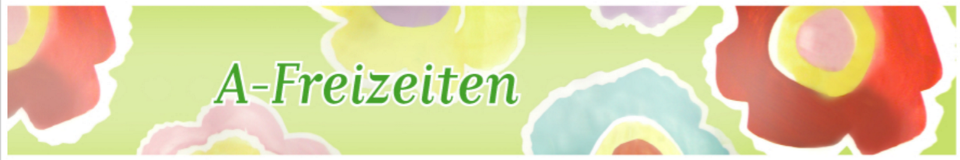
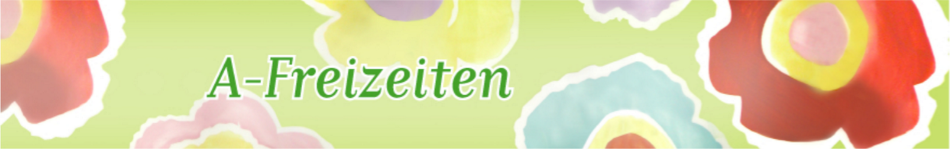
blumen layout changed

diff --git a/stylesheets/blumen.css b/stylesheets/blumen.css
@@ -27,39 +27,80 @@ nav {
   font-family: 'Caudex', serif;
   font-size: 1em;
   margin: 0 auto;
-  padding: 1em;
+  padding: 0;
   text-align: left;
 }
 
 @media screen and (min-width: 64em) {
   header {
-    background-image: url("../images/header.png");
     background-color: #a5c956;
+    padding: 0px auto;
+    height: 165px;
+    width: 100%;
+  }
+  header div {
+    border: 1px solid #333;
+    background-image: url("../images/header.png");
     background-repeat: no-repeat;
-    background-position: center top;
-    height: 160px;
+    background-position: 5px 5px;
+    height: 162px;
+    width: 960px;
+    background-color: white;
   }
   nav {
     float: left;
     width: 15em;
   }
+  nav li {
+    padding-left: 5px;
+  }
   nav li a:hover {
     text-decoration: underline;
+    color: white;
   }
 }
 
 @media screen and (min-width: 42em) and (max-width: 64em) {
+  header {
+    height: 100px;
+  }
+  nav {
+    background-color: #a5c956;
+  }
+  nav li {
+    display: inline-block;
+    padding: 0 10px;
+  }
+  nav li a:hover {
+    text-decoration: underline;
+    color: white;
+  }
   header div {
-    padding: 3rem 4rem;
+    height: 100px;
+    background-image: url("../images/header.png");
+    background-size: 64em auto;
+  background-position: center;
+    background-repeat: no-repeat;
   }
 }
 
 @media screen and (max-width: 42em) {
   header div {
-    padding: 2rem 1rem;
+    height: 50px;
+    background-image: url("../images/header.png");
+    background-size: 42em auto;
+  background-position: center;
+    background-repeat: no-repeat;
   }
   nav {
     width: 100%;
+  }
+  nav li {
+    padding: 10px 10px;
+  }
+  nav li a:hover {
+    text-decoration: underline;
+    color: white;
   }
 }
 
@@ -151,17 +192,17 @@ nav {
     max-width: 64rem;
     padding: 2rem 6rem;
     margin: 0 auto;
-    font-size: 1.1rem; } }
+    font-size: 1.6rem; } }
 
 @media screen and (min-width: 42em) and (max-width: 64em) {
   .main-content {
     padding: 2rem 4rem;
-    font-size: 1.1rem; } }
+    font-size: 1.4rem; } }
 
 @media screen and (max-width: 42em) {
   .main-content {
     padding: 2rem 1rem;
-    font-size: 1rem; } }
+    font-size: 1.2rem; } }
 
 .site-footer {
   padding-top: 2rem;

diff --git a/_layouts/blumen.html b/_layouts/blumen.html
@@ -3,13 +3,14 @@
 <head>
 <meta charset="UTF-8">
 <meta name="viewport" content="width=device-width, initial-scale=1.0">
-<link rel="stylesheet" type="text/css" href="stylesheets/normalize.css" media="screen">
+<link rel="stylesheet" href="https://maxcdn.bootstrapcdn.com/bootstrap/3.3.6/css/bootstrap.min.css" integrity="sha384-1q8mTJOASx8j1Au+a5WDVnPi2lkFfwwEAa8hDDdjZlpLegxhjVME1fgjWPGmkzs7" crossorigin="anonymous">
+<link rel="stylesheet" href="https://maxcdn.bootstrapcdn.com/bootstrap/3.3.6/css/bootstrap-theme.min.css" integrity="sha384-fLW2N01lMqjakBkx3l/M9EahuwpSfeNvV63J5ezn3uZzapT0u7EYsXMjQV+0En5r" crossorigin="anonymous">
 <link href='https://fonts.googleapis.com/css?family=Open+Sans:400,700' rel='stylesheet' type='text/css'>
 <link href='https://fonts.googleapis.com/css?family=Caudex:400italic,700italic' rel='stylesheet' type='text/css'>
 <link rel="stylesheet" type="text/css" href="stylesheets/blumen.css" media="screen">
 </head>
 <body>
-<header>
+<header><div></div>
 </header>
 
 <nav>
@@ -29,5 +30,7 @@
 <footer class="site-footer">
   <p>&copy; 2016 Selbsthilfe Freizeitwerk e.V.</p>
 </footer>
+<script src="https://ajax.googleapis.com/ajax/libs/jquery/1.11.3/jquery.min.js"></script>
+<script src="https://maxcdn.bootstrapcdn.com/bootstrap/3.3.6/js/bootstrap.min.js" integrity="sha384-0mSbJDEHialfmuBBQP6A4Qrprq5OVfW37PRR3j5ELqxss1yVqOtnepnHVP9aJ7xS" crossorigin="anonymous"></script>
 </body>
 </html>

diff --git a/aktuelles.md b/aktuelles.md
@@ -1,5 +1,5 @@
 ---
-layout: default
+layout: blumen
 title: Aktuelles
 ---
 # Aktuelles
@@ -9,12 +9,12 @@ title: Aktuelles
 Liebe Freizeitfreunde, wir vom Vorstand haben ab dem
 26.12.2016 bis 05.01.2017  den “Jugendhof Finkenhof“
 in Blankenheim angemietet.
- 
+
 ## In eigener Sache
- 
+
 Wir trauern um unsere Webmasterin und A-Freundin [Ursel](http://www.wirtrauern.de/Traueranzeige/Ursel-Koester) aus Gummersbach.
- 
+
 ## Gilt immer!
- 
+
 Bitte immer rechtzeitig buchen, sonst entstehen evtl.
 Ausfallkosten oder die Freizeit muss abgesagt werden

diff --git a/bilder.md b/bilder.md
@@ -1,5 +1,5 @@
 ---
-layout: default
+layout: blumen
 title: Bilder
 ---
 ## Bilder von verschiedenen A-Freizeiten der letzten Jahre

diff --git a/gruppen.md b/gruppen.md
@@ -1,5 +1,5 @@
 ---
-layout: default
+layout: blumen
 title: 12 Schritte Gruppen
 ---
 # 12-Schritte-Gruppen

diff --git a/home.md b/home.md
@@ -1,5 +1,5 @@
 ---
-layout: default
+layout: blumen
 title: Start
 ---
 # A-Freizeiten - Was ist das?

diff --git a/veranstalter.md b/veranstalter.md
@@ -1,5 +1,5 @@
 ---
-layout: default
+layout: blumen
 title: Veranstalter
 ---
 # Veranstalter

diff --git a/freizeittermine.md b/freizeittermine.md
@@ -1,5 +1,5 @@
 ---
-layout: default
+layout: blumen
 title: Termine
 ---
 # FREIZEITTERMINE

diff --git a/anderetermine.md b/anderetermine.md
@@ -1,5 +1,5 @@
 ---
-layout: default
+layout: blumen
 title: andere Veranstaltungen
 ---
 

diff --git a/pinnwand.md b/pinnwand.md
@@ -1,5 +1,5 @@
 ---
-layout: default
+layout: blumen
 title: Pinnwand
 ---
 # Pinnwand

diff --git a/kontakt.md b/kontakt.md
@@ -1,5 +1,5 @@
 ---
-layout: default
+layout: blumen
 title: Kontakt
 ---
 # Kontakt
